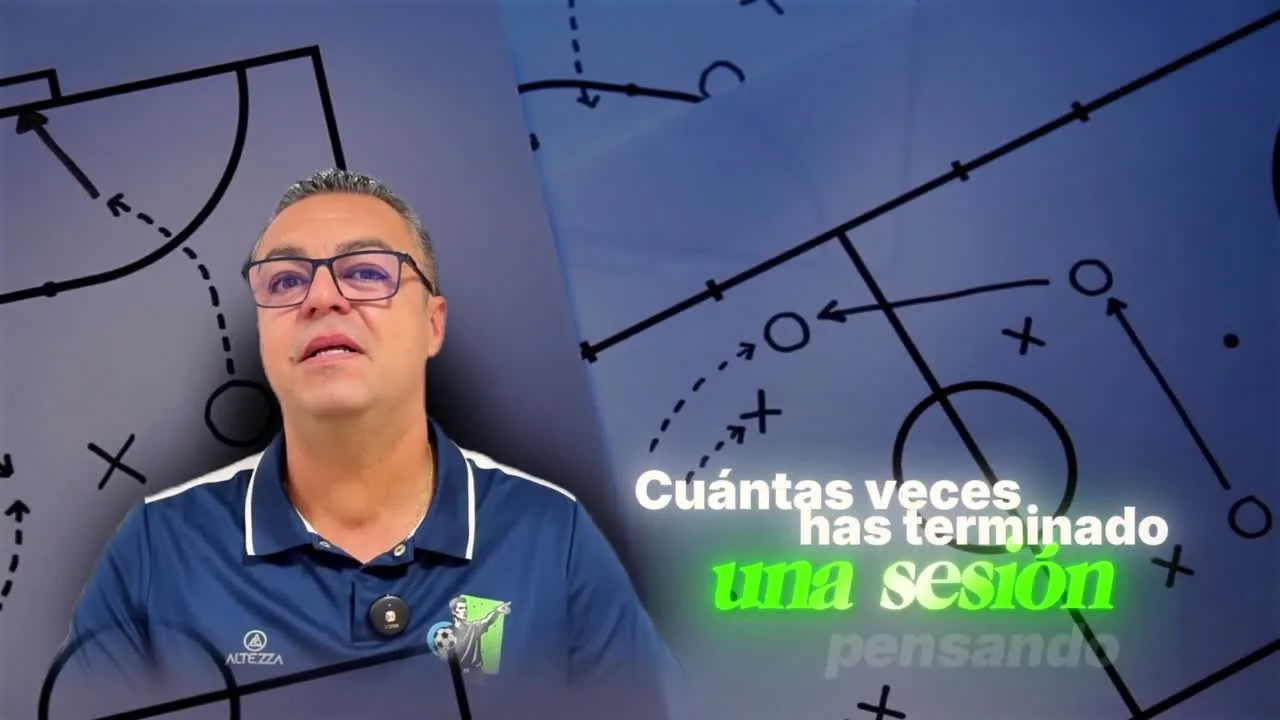
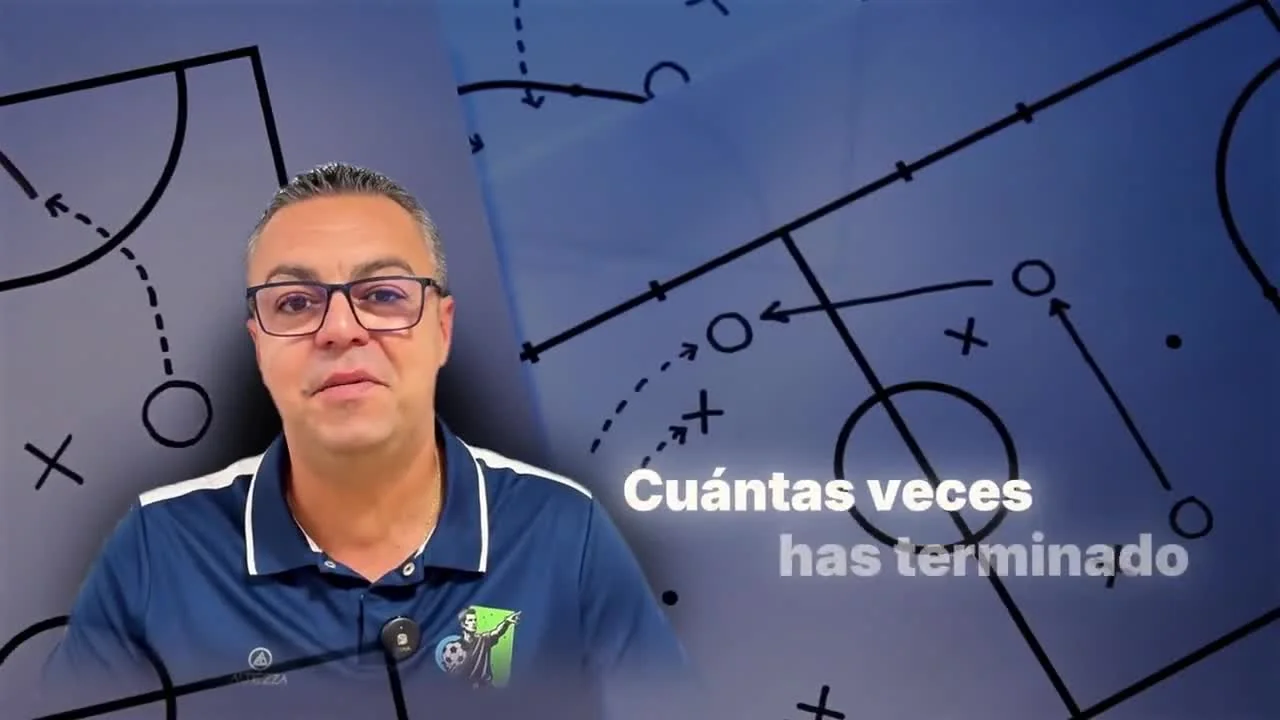
fix: update poster to 1s snapshot and adjust hero layout so video sits cleanly below text

diff --git a/css/styles.css b/css/styles.css
@@ -225,18 +225,26 @@ ul { list-style: none; }
 .hero {
     position: relative;
     width: 100%;
+    min-height: 480px;
     display: flex;
     align-items: center;
     justify-content: center;
+    overflow: hidden;
 }
 
 .hero__bg {
+    position: absolute;
+    inset: 0;
     width: 100%;
+    height: 100%;
+    z-index: 0;
 }
 
 .hero__bg img {
     width: 100%;
-    height: auto;
+    height: 100%;
+    object-fit: cover;
+    object-position: center top;
     display: block;
 }
 
@@ -245,24 +253,21 @@ ul { list-style: none; }
     inset: 0;
     background: linear-gradient(
         to bottom,
-        rgba(0, 0, 0, 0.15) 0%,
-        rgba(0, 0, 0, 0.35) 40%,
-        rgba(0, 0, 0, 0.75) 70%,
+        rgba(0, 0, 0, 0.2) 0%,
+        rgba(0, 0, 0, 0.45) 40%,
+        rgba(0, 0, 0, 0.85) 75%,
         #000000 100%
     );
     z-index: 1;
 }
 
 .hero__content {
-    position: absolute;
-    bottom: 170px;
-    left: 50%;
-    transform: translateX(-50%);
+    position: relative;
     z-index: 2;
     width: 100%;
     text-align: center;
     max-width: 1200px;
-    padding: 0 24px;
+    padding: 130px 24px 70px 24px;
 }
 
 /* ============ VIDEO PLAYER ============ */
@@ -271,22 +276,22 @@ ul { list-style: none; }
     z-index: 10;
     display: flex;
     justify-content: center;
-    align-items: flex-start;
-    height: 0;
-    overflow: visible;
-    padding: 0 20px;
+    align-items: center;
+    margin-top: -50px;
+    margin-bottom: 20px;
+    padding: 0 24px;
+    background: transparent;
 }
 
 .video-preview {
     position: relative;
-    transform: translateY(-50%);
-    width: 720px;
+    width: 820px;
     max-width: 100%;
     aspect-ratio: 16 / 9;
-    border-radius: 16px;
+    border-radius: 18px;
     overflow: hidden;
-    border: 2px solid rgba(68, 164, 220, 0.4);
-    box-shadow: 0 20px 50px rgba(0, 0, 0, 0.8), 0 0 35px rgba(68, 164, 220, 0.2);
+    border: 2px solid rgba(68, 164, 220, 0.45);
+    box-shadow: 0 24px 60px rgba(0, 0, 0, 0.85), 0 0 40px rgba(68, 164, 220, 0.22);
     background: #000000;
 }
 
@@ -295,14 +300,20 @@ ul { list-style: none; }
     height: 100%;
     object-fit: cover;
     display: block;
-    border-radius: 14px;
+    border-radius: 16px;
 }
 
 @media (max-width: 768px) {
+    .hero__content {
+        padding: 100px 20px 50px 20px;
+    }
+    .video-section {
+        margin-top: -30px;
+        padding: 0 16px;
+    }
     .video-preview {
         width: 100%;
-        transform: translateY(-35%);
-        border-radius: 12px;
+        border-radius: 14px;
     }
 }
 
@@ -320,51 +331,53 @@ ul { list-style: none; }
 }
 
 .hero__title {
+    font-size: clamp(38px, 5.5vw, 68px);
     font-weight: 700;
-    font-size: clamp(32px, 4.5vw, 58px);
-    line-height: 1.15;
-    margin-bottom: 22px;
+    line-height: 1.1;
+    color: var(--white);
+    margin-bottom: 24px;
+    letter-spacing: -1.5px;
     animation: fadeInUp 0.8s ease 0.15s both;
 }
 
+.hero__title span {
+    color: var(--blue);
+}
+
 .hero__subtitle {
-    font-size: clamp(14px, 1.35vw, 18px);
-    color: #FFFFFF;
-    max-width: 1200px;
+    font-size: clamp(16px, 1.8vw, 20px);
+    font-weight: 400;
+    color: rgba(255, 255, 255, 0.8);
+    max-width: 680px;
     margin: 0 auto;
     line-height: 1.6;
-    font-weight: 400;
-    white-space: nowrap;
-    text-shadow: 0 2px 10px rgba(0,0,0,0.8);
     animation: fadeInUp 0.8s ease 0.25s both;
 }
 
-@media (max-width: 992px) {
-    .hero__subtitle {
-        white-space: normal;
-    }
-}
-
-/* ============ SECTION SHARED ============ */
+/* ============ SECTIONS COMMON ============ */
 .section {
-    padding: 120px 48px;
+    padding: 100px 0;
 }
 
 .section__label {
     display: inline-block;
     font-size: 12px;
     font-weight: 700;
-    letter-spacing: 3px;
+    letter-spacing: 2.5px;
     text-transform: uppercase;
-    color: var(--green);
+    color: var(--blue);
     margin-bottom: 16px;
 }
 
 .section__title {
-    font-size: clamp(28px, 3.5vw, 44px);
+    font-size: clamp(28px, 4vw, 44px);
     font-weight: 700;
-    line-height: 1.15;
+    line-height: 1.2;
     margin-bottom: 20px;
+}
+
+.section__title span {
+    color: var(--blue);
 }
 
 .section__desc {
@@ -377,15 +390,11 @@ ul { list-style: none; }
 /* ============ MÉTODO ============ */
 .metodo {
     background: linear-gradient(to bottom, #000000 0%, #141720 30%, #030406 100%);
-    padding-top: 300px;
+    padding-top: 80px;
     padding-bottom: 80px;
     position: relative;
     overflow: hidden;
 }
-
-
-
-
 
 .metodo__wrapper {
     max-width: 1100px;
@@ -394,7 +403,7 @@ ul { list-style: none; }
     z-index: 2;
 }
 
-/* --- Header dividido --- */
+/* --- Header dividido --- *//* --- Header dividido --- */
 .metodo__header {
     display: grid;
     grid-template-columns: 1.2fr 1fr;
